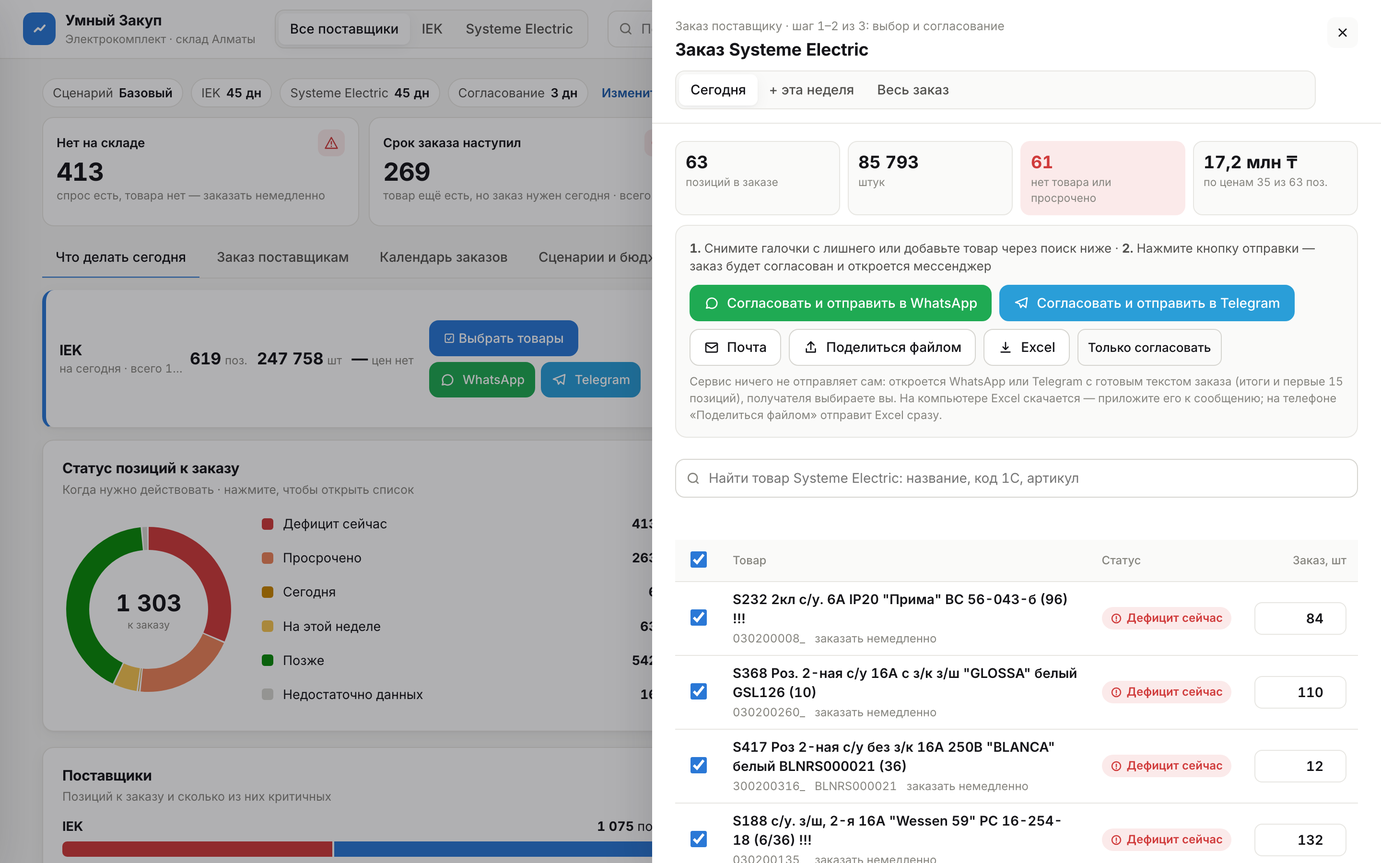
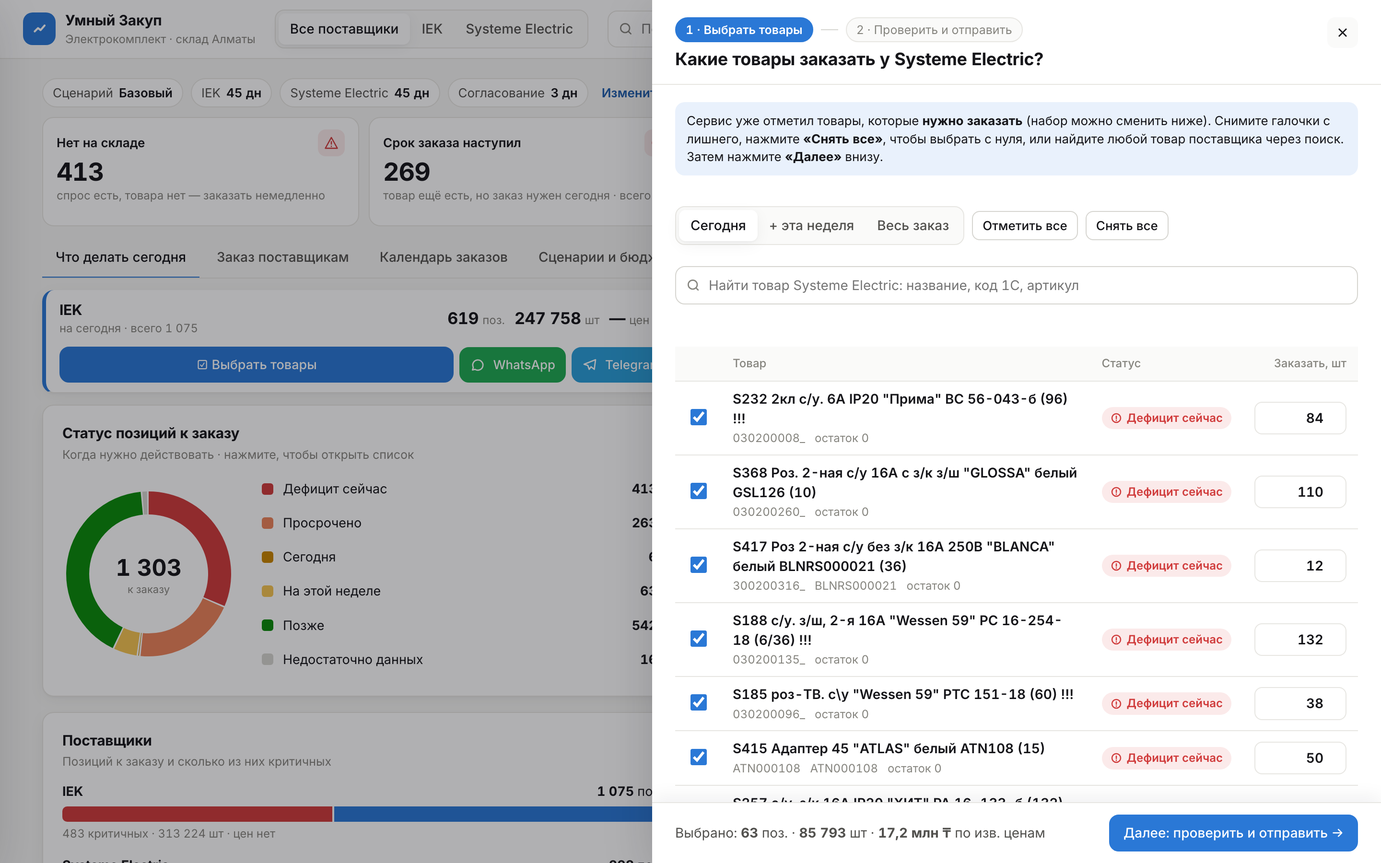
Two-step order wizard: 1) choose items, 2) preview message and send via WhatsApp/Telegram/email

diff --git a/web/app.js b/web/app.js
@@ -315,97 +315,92 @@
       : `https://t.me/share/url?url=${encodeURIComponent("https://umny-zakup.vercel.app")}&text=${encodeURIComponent(text)}`;
   }
 
-  function openOrderSheet(k, scope = sheet.scope) {
-    sheet = { k, scope, q: "", link: null };
+  // Заказ поставщику — мастер из двух шагов: 1) выбрать товары, 2) проверить текст и отправить.
+  function openOrderSheet(k, scope = sheet.scope, step = 1) {
+    sheet = { k, scope, q: "", link: null, step: state.approved[k] ? 2 : step };
     openId = null;
     const d = $("#drawer");
-    d.innerHTML = `
-      <div class="d-head"><div style="min-width:0;flex:1">
-          <div class="muted" style="font-size:12.5px;margin-bottom:4px" id="osStep"></div>
-          <h2>Заказ ${esc(SUPS[k].name)}</h2>
-          <div class="seg" style="margin-top:10px;max-width:100%;overflow-x:auto" role="tablist">${Object.entries(SCOPES).map(([key, [l]]) => `<button class="${key === scope ? "active" : ""}" data-scope="${key}">${l}</button>`).join("")}</div>
+    d.innerHTML = `<div class="d-head"><div style="min-width:0;flex:1">
+          <div class="wiz" id="osWiz"></div>
+          <h2 id="osTitle"></h2>
         </div>
         <button class="d-close" aria-label="Закрыть"><svg viewBox="0 0 24 24"><path d="M6 6l12 12M18 6L6 18"/></svg></button></div>
-      <div class="d-body">
-        <div id="osSum"></div>
-        <div class="os-search">
-          <svg viewBox="0 0 24 24" aria-hidden="true"><circle cx="11" cy="11" r="7"/><path d="M20 20l-3.5-3.5"/></svg>
-          <input id="osQ" type="search" placeholder="Найти товар ${esc(SUPS[k].name)}: название, код 1С, артикул" autocomplete="off" aria-label="Поиск товара в заказе">
-        </div>
-        <div id="osFound"></div>
-        <div id="osList"></div>
-      </div>`;
+      <div class="d-body" id="osBody"></div>
+      <div class="os-bar" id="osBar"></div>`;
     $(".d-close", d).onclick = closeDrawer;
-    $$("[data-scope]", d).forEach((b) => (b.onclick = () => openOrderSheet(k, b.dataset.scope)));
-    let qt;
-    $("#osQ").oninput = (e) => { clearTimeout(qt); qt = setTimeout(() => { sheet.q = e.target.value.trim().toLowerCase(); refreshSheet(); }, 120); };
-    refreshSheet();
-    d.classList.add("open"); d.setAttribute("aria-hidden", "false"); $("#scrim").hidden = false;
+    refreshSheet(true);
+    d.classList.add("open"); d.setAttribute("aria-hidden", "false"); $("#scrim").hidden = false; d.scrollTop = 0;
   }
 
-  function refreshSheet() {
-    const { k, scope, q } = sheet;
-    const cand = orderCandidates(k, scope);
+  function refreshSheet(full = false) {
+    const { k, step } = sheet;
+    const cand = orderCandidates(k, sheet.scope);
     const lines = cand.filter((x) => x.on && x.final > 0);
-    const cov = Engine.priceCoverage(lines);
     const units = lines.reduce((a, x) => a + x.final, 0);
-    const crit = lines.filter((x) => ST[x.r.status].rank <= 1).length;
-    const ap = state.approved[k];
-    const off = cand.filter((x) => !x.on).length;
-    const manual = cand.filter((x) => x.manual).length;
-    $("#osStep").textContent = `Заказ поставщику · ${ap ? "шаг 3 из 3: отправка" : "шаг 1–2 из 3: выбор и согласование"}`;
-    $("#osSum").innerHTML = `
-      <div class="os-facts">
-        <div><b class="num">${fmt(lines.length)}</b><span>позиций в заказе${off ? ` · ${fmt(off)} снято` : ""}${manual ? ` · ${fmt(manual)} добавлено` : ""}</span></div>
-        <div><b class="num">${fmt(units)}</b><span>штук</span></div>
-        <div class="${crit ? "crit" : ""}"><b class="num">${fmt(crit)}</b><span>нет товара или просрочено</span></div>
-        <div><b class="num">${cov.priced ? money(cov.value) : "—"}</b><span>${cov.priced ? (cov.missing ? `по ценам ${fmt(cov.priced)} из ${fmt(cov.lines)} поз.` : "по себестоимости") : "цен нет"}</span></div>
+    const cov = Engine.priceCoverage(lines);
+    $("#osWiz").innerHTML = `<span class="${step === 1 ? "on" : "done"}">1 · Выбрать товары</span><i></i><span class="${step === 2 ? "on" : ""}">2 · Проверить и отправить</span>`;
+    $("#osTitle").textContent = step === 1 ? `Какие товары заказать у ${SUPS[k].name}?` : `Отправить заказ ${SUPS[k].name}`;
+    const total = `<b class="num">${fmt(lines.length)}</b> поз. · <b class="num">${fmt(units)}</b> шт${cov.priced ? ` · <b class="num">${money(cov.value)}</b>${cov.missing ? " по изв. ценам" : ""}` : ""}`;
+    if (step === 1) {
+      if (full) renderStep1(k);
+      renderStep1List(k, cand);
+      $("#osBar").innerHTML = `<div class="os-bar-t">Выбрано: ${total}</div>
+        <button class="btn primary" id="osNext" ${lines.length ? "" : "disabled"}>Далее: проверить и отправить →</button>`;
+      $("#osNext").onclick = () => { sheet.step = 2; sheet.link = null; refreshSheet(true); $("#drawer").scrollTop = 0; };
+    } else {
+      renderStep2(k, lines, total);
+    }
+  }
+
+  function renderStep1(k) {
+    $("#osBody").innerHTML = `
+      <div class="os-howto">Сервис уже отметил товары, которые <b>нужно заказать</b> (набор можно сменить ниже). Снимите галочки с лишнего, нажмите <b>«Снять все»</b>, чтобы выбрать с нуля, или найдите любой товар поставщика через поиск. Затем нажмите <b>«Далее»</b> внизу.</div>
+      <div class="os-tools">
+        <div class="seg" role="tablist" aria-label="Какие товары отметить">${Object.entries(SCOPES).map(([key, [l]]) => `<button class="${key === sheet.scope ? "active" : ""}" data-scope="${key}">${l}</button>`).join("")}</div>
+        <button class="btn sm" id="osAllOn">Отметить все</button>
+        <button class="btn sm" id="osAllOff">Снять все</button>
       </div>
-      <div class="order-steps">
-        ${ap
-          ? `<div class="step-done"><svg viewBox="0 0 24 24"><path d="M5 12l5 5 9-10"/></svg>Согласовано ${esc(ap.at)} на этом устройстве <button class="btn sm ghost" id="osUnapprove">Изменить заказ</button></div>`
-          : `<div class="os-howto"><b>1.</b> Снимите галочки с лишнего или добавьте товар через поиск ниже · <b>2.</b> Нажмите кнопку отправки — заказ будет согласован и откроется мессенджер</div>`}
-        ${sheet.link && sheet.k === k ? `<div class="os-link">Если ${sheet.link.kind === "wa" ? "WhatsApp" : "Telegram"} не открылся автоматически, нажмите:
-          <a class="btn share ${sheet.link.kind}" href="${esc(sheet.link.url)}" target="_blank" rel="noopener">Открыть ${sheet.link.kind === "wa" ? "WhatsApp" : "Telegram"} с текстом заказа</a>
-          <span class="muted">Нужен файл для поставщика? Нажмите «Excel» и приложите его к сообщению.</span></div>` : ""}
-        <div class="send-row">
-          ${lines.length ? `<a class="btn share wa" data-send="wa" href="${esc(shareUrl("wa", k, lines))}" target="_blank" rel="noopener"><svg viewBox="0 0 24 24"><path d="M4 20l1.3-4A8 8 0 1 1 8 19z"/></svg>${ap ? "WhatsApp" : "Согласовать и отправить в WhatsApp"}</a>
-          <a class="btn share tg" data-send="tg" href="${esc(shareUrl("tg", k, lines))}" target="_blank" rel="noopener"><svg viewBox="0 0 24 24"><path d="M21 4L3 11l6 2 2 6 3-4 5 4z"/></svg>${ap ? "Telegram" : "Согласовать и отправить в Telegram"}</a>` : ""}
-          <button class="btn share" data-send="mail" ${lines.length ? "" : "disabled"}><svg viewBox="0 0 24 24"><rect x="3" y="5" width="18" height="14" rx="2"/><path d="M3 7l9 6 9-6"/></svg>Почта</button>
-          ${navigator.canShare ? `<button class="btn share" data-send="file" ${lines.length ? "" : "disabled"}><svg viewBox="0 0 24 24"><path d="M12 3v12M7 8l5-5 5 5M5 14v5h14v-5"/></svg>Поделиться файлом</button>` : ""}
-          <button class="btn share" id="osXls"><svg viewBox="0 0 24 24"><path d="M12 4v11m0 0l-4-4m4 4l4-4M5 19h14"/></svg>Excel</button>
-          ${ap ? "" : `<button class="btn sm ghost" id="osApprove" ${lines.length ? "" : "disabled"}>Только согласовать</button>`}
-        </div>
-        <p class="muted" style="font-size:12px;margin:8px 0 0">Сервис ничего не отправляет сам: откроется WhatsApp или Telegram с готовым текстом заказа (${lines.length <= 50 ? "все позиции" : "итоги и первые 30 позиций"}), получателя выбираете вы. Файл скачивается только кнопкой «Excel»${navigator.canShare ? "; «Поделиться файлом» отправит Excel сразу" : ""}.</p>
-      </div>`;
-    // найденные товары поставщика, которых нет в списке — можно добавить
+      <div class="os-search">
+        <svg viewBox="0 0 24 24" aria-hidden="true"><circle cx="11" cy="11" r="7"/><path d="M20 20l-3.5-3.5"/></svg>
+        <input id="osQ" type="search" placeholder="Найти товар ${esc(SUPS[k].name)}: название, код 1С, артикул" autocomplete="off" aria-label="Поиск товара">
+      </div>
+      <div id="osFound"></div>
+      <div id="osList"></div>`;
+    $$("[data-scope]").forEach((b) => (b.onclick = () => { sheet.scope = b.dataset.scope; refreshSheet(true); }));
+    let qt;
+    $("#osQ").oninput = (e) => { clearTimeout(qt); qt = setTimeout(() => { sheet.q = e.target.value.trim().toLowerCase(); refreshSheet(); }, 120); };
+    const pk = pickOf(k);
+    const setAll = (on) => { orderCandidates(k, sheet.scope).forEach((x) => { pk.off = pk.off.filter((id) => id !== x.s.id); if (!on) pk.off.push(x.s.id); }); savePick(); refreshSheet(); };
+    $("#osAllOn").onclick = () => setAll(true);
+    $("#osAllOff").onclick = () => setAll(false);
+  }
+
+  function renderStep1List(k, cand) {
+    const q = sheet.q;
     const inList = new Set(cand.map((x) => x.s.id));
     const match = (x) => `${x.s.n} ${x.s.id} ${x.s.art || ""}`.toLowerCase().includes(q);
-    const found = q.length >= 2 && !ap ? rows.filter((x) => x.s.sup === k && !inList.has(x.s.id) && match(x)).slice(0, 8) : [];
-    $("#osFound").innerHTML = found.length ? `<div class="os-found"><div class="muted" style="font-size:12.5px;margin-bottom:6px">Нет в заказе — можно добавить:</div>
+    const found = q.length >= 2 ? rows.filter((x) => x.s.sup === k && !inList.has(x.s.id) && match(x)).slice(0, 8) : [];
+    $("#osFound").innerHTML = found.length ? `<div class="os-found"><div class="muted" style="font-size:12.5px;margin-bottom:6px">Других товаров нет в списке — можно добавить:</div>
       ${found.map((x) => `<div class="os-f"><span><b>${esc(x.s.n)}</b><br><span class="muted">${esc(x.s.id)}${x.s.art ? " · " + esc(x.s.art) : ""} · остаток ${fmt(x.r.stock)} · ${x.r.qty > 0 ? `рекомендовано ${fmt(x.r.qty)} шт` : "сервис не рекомендует заказ"}</span></span><button class="btn sm" data-add="${esc(x.s.id)}">+ Добавить</button></div>`).join("")}</div>` : "";
     const shown = q ? cand.filter(match) : cand;
     $("#osList").innerHTML = shown.length ? `<div class="table-wrap"><table class="acts os-table">
-        <thead><tr><th style="width:34px"><input type="checkbox" id="osAll" ${shown.every((x) => x.on) ? "checked" : ""} ${ap ? "disabled" : ""} aria-label="Выбрать все показанные"></th><th>Товар</th><th>Статус</th><th class="r">Заказ, шт</th></tr></thead>
+        <thead><tr><th style="width:34px"></th><th>Товар</th><th>Статус</th><th class="r">Заказать, шт</th></tr></thead>
         <tbody>${shown.slice(0, 400).map((x) => `<tr class="${x.on ? "" : "off"}">
-          <td><input type="checkbox" data-on="${esc(x.s.id)}" ${x.on ? "checked" : ""} ${ap ? "disabled" : ""} aria-label="Включить в заказ"></td>
-          <td><div class="p-name">${esc(x.s.n)}${x.manual ? ' <span class="badge in">добавлен вручную</span>' : ""}</div><div class="p-meta"><span>${esc(x.s.id)}</span>${x.s.art ? `<span>${esc(x.s.art)}</span>` : ""}<span>${x.r.status === "now" ? "заказать немедленно" : x.r.safeDay == null ? "" : x.r.safeDay <= 0 ? "заказать сегодня" : "до " + Engine.fmtDay(x.r.safeDay)}</span></div></td>
+          <td><input type="checkbox" data-on="${esc(x.s.id)}" ${x.on ? "checked" : ""} aria-label="Заказать этот товар"></td>
+          <td><div class="p-name">${esc(x.s.n)}${x.manual ? ' <span class="badge in">добавлен вручную</span>' : ""}</div><div class="p-meta"><span>${esc(x.s.id)}</span>${x.s.art ? `<span>${esc(x.s.art)}</span>` : ""}<span>остаток ${fmt(x.r.stock)}</span></div></td>
           <td>${statusPill(x.r.status)}</td>
-          <td class="r"><input class="qty-input ${state.overrides[x.s.id] != null ? "edited" : ""}" type="number" min="0" step="${x.s.moq}" value="${x.final}" data-oq="${esc(x.s.id)}" ${ap || !x.on ? "disabled" : ""} aria-label="Количество">${x.on && !(x.final > 0) ? '<div class="rec-hint" style="color:var(--warn)">укажите количество</div>' : ""}</td>
+          <td class="r"><input class="qty-input ${state.overrides[x.s.id] != null ? "edited" : ""}" type="number" min="0" step="${x.s.moq}" value="${x.final}" data-oq="${esc(x.s.id)}" ${x.on ? "" : "disabled"} aria-label="Количество">${x.on && !(x.final > 0) ? '<div class="rec-hint" style="color:var(--warn)">укажите количество</div>' : ""}</td>
         </tr>`).join("")}</tbody></table></div>
-        ${shown.length > 400 ? `<p class="muted" style="font-size:12.5px">Показаны первые 400 из ${fmt(shown.length)} — уточните поиск. В заказ и Excel попадают все отмеченные.</p>` : ""}`
-      : `<div class="empty">${q ? "В заказе таких товаров нет — выше можно добавить найденные." : "В этом наборе позиций нет. Выберите «+ эта неделя» или «Весь заказ»."}</div>`;
-
+        ${shown.length > 400 ? `<p class="muted" style="font-size:12.5px">Показаны первые 400 из ${fmt(shown.length)} — уточните поиск.</p>` : ""}`
+      : `<div class="empty">${q ? "Среди отмеченных таких нет — выше можно добавить найденные." : "Список пуст. Выберите другой набор выше или найдите товар поиском."}</div>`;
     const pk = pickOf(k);
     const setOn = (id, on) => { pk.off = pk.off.filter((x) => x !== id); if (!on) pk.off.push(id); };
     $$("[data-on]").forEach((c) => (c.onchange = () => { setOn(c.dataset.on, c.checked); savePick(); refreshSheet(); }));
-    if ($("#osAll")) $("#osAll").onchange = (e) => { shown.forEach((x) => setOn(x.s.id, e.target.checked)); savePick(); refreshSheet(); };
     $$("[data-add]").forEach((b) => (b.onclick = () => {
       const id = b.dataset.add;
       if (!pk.add.includes(id)) pk.add.push(id);
       setOn(id, true); savePick();
-      const x = rows.find((r) => r.s.id === id);
-      if (!(x.final > 0)) toast("Товар добавлен — укажите количество");
+      if (!(rows.find((r) => r.s.id === id).final > 0)) toast("Товар добавлен — укажите количество");
       refreshSheet();
     }));
     $$("[data-oq]").forEach((inp) => (inp.onchange = () => {
@@ -414,22 +409,46 @@
       if (v === row.r.qty) delete state.overrides[row.s.id]; else state.overrides[row.s.id] = v;
       store.set("overrides", state.overrides); recompute(); render(); refreshSheet();
     }));
+  }
+
+  function renderStep2(k, lines, total) {
+    const ap = state.approved[k];
+    const preview = orderSummary(k, lines);
+    $("#osBody").innerHTML = `
+      ${ap ? `<div class="step-done"><svg viewBox="0 0 24 24"><path d="M5 12l5 5 9-10"/></svg>Согласовано ${esc(ap.at)} на этом устройстве</div>` : ""}
+      ${sheet.link ? `<div class="os-link">Если ${sheet.link.kind === "wa" ? "WhatsApp" : "Telegram"} не открылся, нажмите:
+        <a class="btn share ${sheet.link.kind}" href="${esc(sheet.link.url)}" target="_blank" rel="noopener">Открыть ${sheet.link.kind === "wa" ? "WhatsApp" : "Telegram"}</a>
+        <span class="muted">Нужен файл для поставщика? Кнопка «Excel» ниже.</span></div>` : ""}
+      <div class="os-block"><div class="os-label">В заказе</div><div class="os-total">${total}</div>
+        <div class="os-mini">${lines.slice(0, 200).map((x) => `<div><span>${esc(x.s.n)}</span><b class="num">${fmt(x.final)} шт</b></div>`).join("")}${lines.length > 200 ? `<div class="muted">…и ещё ${fmt(lines.length - 200)}</div>` : ""}</div></div>
+      <div class="os-block"><div class="os-label">Так будет выглядеть сообщение</div><pre class="os-preview">${esc(preview)}</pre></div>
+      <p class="muted" style="font-size:12px;margin:0">Нажатие кнопки отправки = согласование заказа. Сервис ничего не отправляет сам: откроется мессенджер с этим текстом, получателя выберете вы. Файл скачивается только кнопкой «Excel».</p>`;
+    $("#osBar").innerHTML = `
+      <button class="btn" id="osBack">← Изменить выбор</button>
+      <div class="send-row" style="margin-left:auto">
+        <a class="btn share wa" data-send="wa" href="${esc(shareUrl("wa", k, lines))}" target="_blank" rel="noopener"><svg viewBox="0 0 24 24"><path d="M4 20l1.3-4A8 8 0 1 1 8 19z"/></svg>WhatsApp</a>
+        <a class="btn share tg" data-send="tg" href="${esc(shareUrl("tg", k, lines))}" target="_blank" rel="noopener"><svg viewBox="0 0 24 24"><path d="M21 4L3 11l6 2 2 6 3-4 5 4z"/></svg>Telegram</a>
+        <button class="btn share" data-send="mail">Почта</button>
+        ${navigator.canShare ? `<button class="btn share" data-send="file">Поделиться файлом</button>` : ""}
+        <button class="btn share" id="osXls">Excel</button>
+      </div>`;
+    $("#osBack").onclick = () => {
+      if (state.approved[k]) { delete state.approved[k]; store.set("approved", state.approved); render(); }
+      sheet.step = 1; sheet.link = null; refreshSheet(true);
+    };
     const approve = () => {
       if (state.approved[k]) return state.approved[k];
       state.approved[k] = { at: new Date().toLocaleString("ru-RU", { day: "2-digit", month: "2-digit", hour: "2-digit", minute: "2-digit" }), n: lines.length };
       store.set("approved", state.approved);
       return state.approved[k];
     };
-    const xls = (a = state.approved[k]) => { XLSX.writeFile(buildWorkbook([k], () => lines, a ? `Согласовано ${a.at}, отправляет менеджер` : null), orderFile(k)); };
+    const xls = (a = state.approved[k]) => XLSX.writeFile(buildWorkbook([k], () => lines, a ? `Согласовано ${a.at}, отправляет менеджер` : null), orderFile(k));
     $("#osXls").onclick = () => { xls(); toast("Excel скачан"); };
-    if ($("#osApprove")) $("#osApprove").onclick = () => { approve(); render(); refreshSheet(); toast("Заказ согласован"); };
-    if ($("#osUnapprove")) $("#osUnapprove").onclick = () => { delete state.approved[k]; store.set("approved", state.approved); render(); refreshSheet(); };
     $$("[data-send]").forEach((b) => (b.onclick = async (e) => {
       const kind = b.dataset.send;
-      const a = approve();                         // нажатие = подтверждение менеджера
-      const later = () => setTimeout(() => { render(); refreshSheet(); }, 60);
+      const a = approve();
+      const later = () => setTimeout(() => { render(); refreshSheet(true); }, 60);
       if (kind === "wa" || kind === "tg") {
-        // переход по ссылке делает сам браузер (не блокируется); Excel — следом
         sheet.link = { url: b.getAttribute("href"), kind };
         toast(`Открывается ${kind === "wa" ? "WhatsApp" : "Telegram"} с текстом заказа`);
         later();
@@ -451,14 +470,7 @@
     }));
   }
 
-  /** Подсветить кнопку отправки в окне заказа: менеджер проверяет выбор и нажимает её сам. */
-  function highlightSend(kind) {
-    const b = $(`#drawer [data-send="${kind}"]`);
-    if (!b) return;
-    b.classList.add("pulse");
-    b.scrollIntoView({ block: "center" });
-    toast("Проверьте выбор товаров и нажмите кнопку отправки");
-  }
+  function highlightSend() { toast("Шаг 1: отметьте товары и нажмите «Далее» — затем выберите WhatsApp или Telegram"); }
   /** Кнопка «Отправить заказ» в шапке: выбрать поставщика. */
   function sendChooser() {
     const keys = Object.keys(REAL_SUPS).filter((k) => state.sup === "all" || k === state.sup);
@@ -1779,7 +1791,7 @@
     if (h.get("sup") && SUPS[h.get("sup")]) { state.sup = h.get("sup"); renderSupSeg(); renderGroupSel(); recompute(); render(); }
     if (h.get("tab")) switchTab(h.get("tab"));
     if (h.get("sku")) openDrawer(h.get("sku"));
-    if (h.get("order") && REAL_SUPS[h.get("order")]) openOrderSheet(h.get("order"), "today");
+    if (h.get("order") && REAL_SUPS[h.get("order")]) openOrderSheet(h.get("order"), "today", +h.get("step") === 2 ? 2 : 1);
     if (h.get("sec")) document.getElementById(h.get("sec"))?.scrollIntoView();
   }
   try {

diff --git a/web/styles.css b/web/styles.css
@@ -561,3 +561,22 @@ h2.sec:first-child { margin-top: 4px; }
 .os-link { display: flex; flex-wrap: wrap; align-items: center; gap: 10px; font-size: 13px; background: var(--good-soft); border-radius: 10px; padding: 10px 12px; margin-bottom: 10px; }
 .os-link a { text-decoration: none; }
 a.btn { text-decoration: none; }
+/* ---------- мастер заказа: шаг 1 выбор, шаг 2 отправка ---------- */
+.wiz { display: flex; align-items: center; gap: 8px; font-size: 12.5px; color: var(--text-3); margin-bottom: 6px; flex-wrap: wrap; }
+.wiz span { padding: 3px 10px; border-radius: 999px; background: var(--surface-2); border: 1px solid var(--line); white-space: nowrap; }
+.wiz span.on { background: var(--accent); border-color: var(--accent); color: #fff; font-weight: 600; }
+.wiz span.done { color: var(--good); border-color: color-mix(in srgb, var(--good) 40%, transparent); }
+.wiz i { width: 18px; height: 1px; background: var(--line-strong); }
+.os-howto { background: var(--accent-soft); border-radius: 10px; padding: 10px 12px; font-size: 13px; color: var(--text); }
+.os-tools { display: flex; flex-wrap: wrap; gap: 8px; align-items: center; }
+.os-bar { position: sticky; bottom: 0; z-index: 3; display: flex; flex-wrap: wrap; align-items: center; gap: 10px; padding: 12px 24px calc(12px + env(safe-area-inset-bottom, 0px)); background: var(--surface); border-top: 1px solid var(--line); box-shadow: 0 -6px 18px rgba(20,20,30,.06); }
+.os-bar .os-bar-t { font-size: 14px; color: var(--text-2); }
+.os-bar #osNext { margin-left: auto; }
+.os-block { border: 1px solid var(--line); border-radius: 12px; padding: 12px 14px; }
+.os-label { font-size: 12px; text-transform: uppercase; letter-spacing: .04em; color: var(--text-3); font-weight: 600; margin-bottom: 6px; }
+.os-total { font-size: 15px; margin-bottom: 8px; }
+.os-mini { max-height: 220px; overflow-y: auto; font-size: 13px; }
+.os-mini div { display: flex; justify-content: space-between; gap: 12px; padding: 4px 0; border-top: 1px solid var(--line); }
+.os-mini div:first-child { border-top: 0; }
+.os-preview { margin: 0; white-space: pre-wrap; font: 13px/1.5 var(--font); background: var(--good-soft); border-radius: 10px; padding: 12px 14px; max-height: 260px; overflow-y: auto; color: var(--text); }
+@media (max-width: 600px) { .os-bar { padding-left: 16px; padding-right: 16px; } .os-bar .send-row { margin-left: 0 !important; width: 100%; } .os-bar #osNext { width: 100%; justify-content: center; } }

diff --git a/web/sw.js b/web/sw.js
@@ -2,7 +2,7 @@
  * При первом открытии сохраняет все файлы сервиса в браузере; дальше сервис открывается
  * и считает без интернета. При наличии сети всегда берёт свежую версию (сначала сеть,
  * затем кэш), поэтому обновления данных видны сразу. */
-const VERSION = "umny-zakup-v9";
+const VERSION = "umny-zakup-v10";
 const CORE = ["./", "index.html", "styles.css", "app.js", "engine.js", "coverage.js", "assumptions.js", "data.js", "vendor/xlsx.full.min.js", "manifest.webmanifest", "icon.svg"];
 
 self.addEventListener("install", (e) => {

diff --git a/README.md b/README.md
@@ -185,24 +185,28 @@ flowchart LR
 
 ## 📨 Отправка заказа в WhatsApp и Telegram
 
-**Сервис умеет отправлять заказ поставщику в WhatsApp, Telegram и на почту, а также выгружать его в Excel.** Менеджер сам выбирает, какие товары покупать.
+**Сервис умеет отправлять заказ поставщику в WhatsApp, Telegram и на почту, а также выгружать его в Excel.** Какие товары покупать, менеджер выбирает сам — отправка идёт в два понятных шага.
 
-![Заказ поставщику: выбор товаров и кнопки «Согласовать и отправить в WhatsApp / Telegram»](docs/send-order.png)
+**Где начать:** кнопка **«Отправить заказ»** в шапке сайта или кнопки **«☑ Выбрать товары»**, **WhatsApp**, **Telegram** на карточке поставщика — все ведут в шаг 1.
 
-**Где кнопки:**
-- в шапке сайта — **«Отправить заказ»** (значки WhatsApp и Telegram);
-- на карточке каждого поставщика — **«☑ Выбрать товары»**, **WhatsApp**, **Telegram**;
-- в окне заказа — **«Согласовать и отправить в WhatsApp»**, **«Согласовать и отправить в Telegram»**, **«Почта»**, **«Excel»**, на телефоне ещё **«Поделиться файлом»**.
+### Шаг 1 из 2 — выбрать товары
 
-**Ручной выбор товаров** — кнопка **«☑ Выбрать товары»**:
-- галочка у каждой позиции: снятые не попадают в заказ; галочка в шапке — выбрать или снять все;
-- поиск по названию, коду 1С или артикулу; товары поставщика, которых нет в заказе, можно добавить кнопкой **«+ Добавить»** — даже если сервис их не рекомендовал;
-- количество правится прямо в списке; можно взять только срочное, добавить позиции этой недели или весь заказ;
-- итоги, Excel и текст сообщения считаются только по отмеченным позициям; выбор сохраняется в браузере.
+![Шаг 1: выбор товаров галочками и поиском](docs/send-order.png)
 
-**Как происходит отправка:** нажатие «Согласовать и отправить» — это подтверждение менеджера. Заказ отмечается согласованным, и открывается WhatsApp или Telegram с готовым текстом: поставщик, количество позиций и штук, сумма по известным ценам и **весь список позиций** (если их до 50; иначе первые 30 и ссылка на Excel). Получателя выбирает менеджер. Ничего не скачивается без спроса: файл Excel для поставщика — отдельной кнопкой «Excel», его можно приложить к сообщению. На телефоне «Поделиться файлом» отправляет Excel сразу.
+- Сервис заранее отмечает товары, которые нужно заказать сегодня (можно переключить на «+ эта неделя» или «Весь заказ»).
+- Галочки у каждой позиции, кнопки **«Отметить все»** и **«Снять все»** — чтобы выбрать с нуля.
+- **Поиск** по названию, коду 1С или артикулу; любой товар поставщика можно добавить кнопкой **«+ Добавить»**, даже если сервис его не рекомендовал.
+- Количество правится прямо в списке. Внизу всегда видно: **«Выбрано: N позиций · штук · сумма»** и кнопка **«Далее: проверить и отправить»**.
 
-**Сервис ничего не отправляет сам** — как требует ТЗ, заказ уходит только после действия ответственного сотрудника. Коммерческие данные лучше отправлять с рабочего номера.
+### Шаг 2 из 2 — проверить и отправить
+
+![Шаг 2: список выбранного, предпросмотр сообщения и кнопки WhatsApp, Telegram, Почта, Excel](docs/send-order-2.png)
+
+- Список **только выбранных** товаров и **предпросмотр сообщения** — ровно тот текст, который уйдёт: поставщик, позиции и штуки, сумма и список «код — товар — количество» (до 50 позиций целиком, иначе первые 30 и ссылка на Excel).
+- Кнопки **WhatsApp**, **Telegram**, **Почта** открывают мессенджер или почту с этим текстом; получателя выбирает менеджер. **Excel** скачивается только отдельной кнопкой, на телефоне **«Поделиться файлом»** отправляет его сразу.
+- **«← Изменить выбор»** возвращает к шагу 1.
+
+**Сервис ничего не отправляет сам** — как требует ТЗ: нажатие кнопки отправки и есть подтверждение ответственного сотрудника (заказ отмечается согласованным на этом устройстве). Коммерческие данные лучше отправлять с рабочего номера.
 
 ## 🧪 Проверить расчёт на своих числах
 
